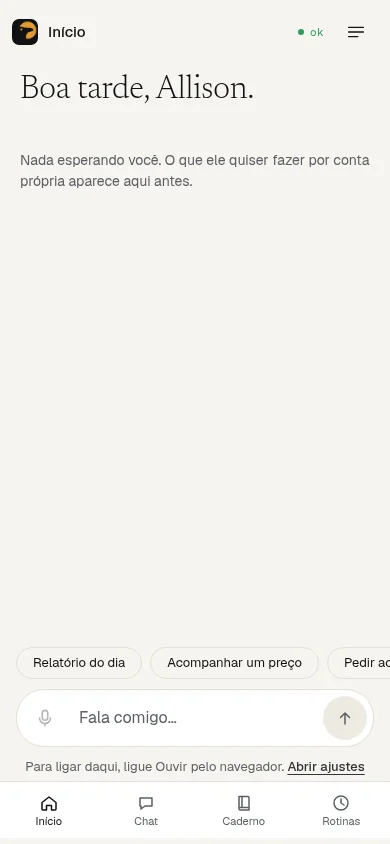
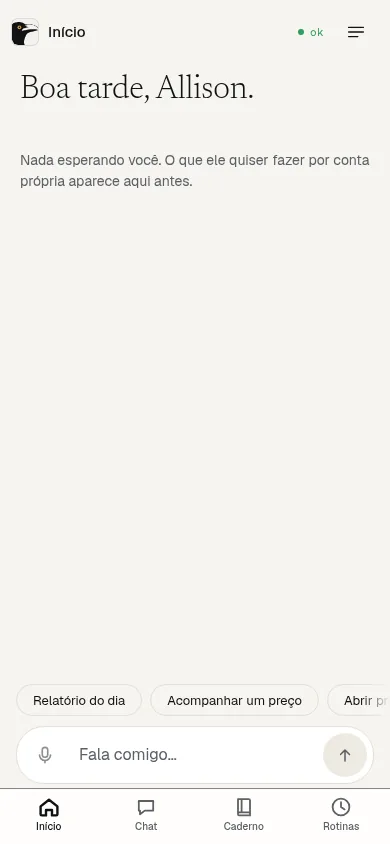
Marca: sai o corvo no eclipse
Saem os dois desenhos com o sol (brand/corvo/) e as cópias do app em
public/marca/corvo-256.png e corvo-512.png, que ninguém mais lê. O
README perde o "corvo diante do sol" na linha da identidade, nos textos
alternativos e na licença, e os prints do Início, do chat e do celular
foram refeitos com o corvo de olho âmbar. A animação do ponto de
atividade deixa de se chamar `sol` e vira `pulso`. O selo do login
continua como está.

Changed region(s): [[0.0615, 0.7701, 0.9231, 0.9858], [0.8923, 0.7701, 1.0, 0.8318], [0.0308, 0.0, 0.1231, 0.0616]]

diff --git a/apps/web/src/layout.css b/apps/web/src/layout.css
@@ -450,8 +450,8 @@ button.ghost:hover { color: var(--text); background: var(--surface-2); border-co
 .step-card-detail { margin: 0; padding: 8px 10px; overflow-x: auto; border-radius: 6px; background: var(--code); color: var(--code-text); font: 400 12px/1.5 var(--font-mono); white-space: pre-wrap; overflow-wrap: anywhere; }
 
 /* O ponto âmbar de atividade no compositor: é dele (DESIGN.md §2). */
-.composer-row > .atividade { order: 1; flex: none; width: 14px; height: 14px; margin: 0 6px; border-radius: 50%; background: var(--ambar); animation: sol 1.6s ease-out infinite; }
-@keyframes sol { 0%, 100% { box-shadow: 0 0 0 0 rgb(227 154 46 / .55); } 50% { box-shadow: 0 0 0 7px rgb(227 154 46 / 0); } }
+.composer-row > .atividade { order: 1; flex: none; width: 14px; height: 14px; margin: 0 6px; border-radius: 50%; background: var(--ambar); animation: pulso 1.6s ease-out infinite; }
+@keyframes pulso { 0%, 100% { box-shadow: 0 0 0 0 rgb(227 154 46 / .55); } 50% { box-shadow: 0 0 0 7px rgb(227 154 46 / 0); } }
 @media (prefers-reduced-motion: reduce) { .composer-row > .atividade { animation: none; } }
 
 /* Agora / O que fiz de verdade: coluna com borda, sem cartões (mockup). */

diff --git a/apps/web/src/brand/tokens.css b/apps/web/src/brand/tokens.css
@@ -1,4 +1,4 @@
-/* V.I.S.A.O.: tokens da identidade "corvo no eclipse" (DESIGN.md §2 e §3). Uma luz só: âmbar
+/* V.I.S.A.O.: tokens da identidade "corvo de olho âmbar" (DESIGN.md §2 e §3). Uma luz só: âmbar
    (#E39A2E) é dele; o resto é tinta, linha, cinza e papel. O botão principal é a cor do texto com
    o fundo por cima. Vermelho só em erro, e como texto. Três temas, trocados em Ajustes › Aparência
    (brand/theme.ts põe data-theme no <html>): Papel (claro, o padrão), Tinta (escuro) e Rótulo

diff --git a/README.pt-BR.md b/README.pt-BR.md
@@ -8,7 +8,7 @@
 
 <p align="center"><img src="brand/muninn/muninn-ascii.gif" width="620" alt="O Muninn se desenhando em ASCII: os caracteres assentam do peito para as pontas das asas, o anel de 24 marcas se fecha e a falha vazia do topo pisca"></p>
 
-![Início no tema Papel: o corvo diante do sol, a saudação, a barra lateral com os nove lugares e a barra de status no rodapé](docs/assets/inicio.webp)
+![Início no tema Papel: o corvo de olho âmbar, a saudação, a barra lateral com os nove lugares e a barra de status no rodapé](docs/assets/inicio.webp)
 
 Fiz o Visão para ser o amigo para quem eu ligo. Ele me ajuda com código e ideias, lembra só do
 que eu deixo e puxa conversa sozinho quando tem algo que vale dizer.
@@ -29,7 +29,7 @@ nem vida, e as regras que dizem isso ficam fora de tudo o que ele pode reescreve
 | **Lê meu email e minha agenda.** Lê o Gmail e a Google Agenda quando eu pergunto, e prepara respostas e eventos que só saem depois do meu toque em Aprovar. A conexão fica cifrada; um email que tenta dar ordens a ele no máximo vira um pedido que eu leio ([docs/GOOGLE.md](docs/GOOGLE.md)). | feito |
 | **Abre o que eu mando.** Links na mensagem são lidos antes da resposta: repositórios do GitHub pela API, outras páginas por um leitor que só alcança endereços HTTPS públicos. | feito |
 | **Vê fotos, lê arquivos.** Anexe pelo +, cole um print ou arraste um arquivo: fotos vão ao modelo como imagem (reduzidas no navegador antes), PDFs e arquivos de texto ou código vão como o texto lido deles, marcado como dado, nunca como ordem. O que você manda aparece na hora, antes da resposta ([docs/ANEXOS.md](docs/ANEXOS.md)). | feito; fotos pedem um modelo com visão |
-| **Um corvo diante do sol.** Sem mascote e sem olho vigiando: o ícone é o Muninn, o corvo da memória de Odin, em xilogravura diante de um eclipse âmbar, e o âmbar é só dele (os pensamentos, os pedidos de aprovação, o ponto que pulsa enquanto ele trabalha). Três temas, trocados na hora em Ajustes: Papel, Tinta e Rótulo. No computador é uma janela de app: barra lateral com nove lugares, a barra da página e a barra de status com o servidor, o Mac, as rotinas, o silêncio, o uso de modelos das últimas 24 h e o modelo, que se troca dali. Ctrl/⌘+K abre a paleta de comandos. O login mostra o selo: VISAO em Six Caps atrás do busto ([DESIGN.md](DESIGN.md)). Dá para continuar escrevendo enquanto ele responde: essas mensagens esperam, mais apagadas, e vão juntas como a próxima mensagem. | feito |
+| **Um corvo de olho âmbar.** Sem mascote: o ícone é um corvo em close, preto sobre papel, com um olho âmbar, e o âmbar é só dele (os pensamentos, os pedidos de aprovação, o ponto que pulsa enquanto ele trabalha). Três temas, trocados na hora em Ajustes: Papel, Tinta e Rótulo. No computador é uma janela de app: barra lateral com nove lugares, a barra da página e a barra de status com o servidor, o Mac, as rotinas, o silêncio, o uso de modelos das últimas 24 h e o modelo, que se troca dali. Ctrl/⌘+K abre a paleta de comandos. O login mostra o selo: VISAO em Six Caps atrás do busto ([DESIGN.md](DESIGN.md)). Dá para continuar escrevendo enquanto ele responde: essas mensagens esperam, mais apagadas, e vão juntas como a próxima mensagem. | feito |
 | **Páginas que ele escreve.** Peça um plano, um comparativo ou um roteiro para guardar: a resposta diz o que vai ter, e um cartão embaixo dela passa de "Criando…" para uma página que você abre, compartilha por um link secreto ou apaga. Escrita a partir da conversa e das pesquisas dela, com datas e fontes, "a confirmar" no que faltar; servida sem scripts e com origem opaca, então não alcança a sua sessão ([docs/ARTEFATOS.md](docs/ARTEFATOS.md)). | feito |
 | **Status ao vivo.** Enquanto trabalha, cada passo vira um cartão no chat ("Procurou no seu Gmail", "Abrindo github.com"), resumido ou técnico, como você preferir, e uma coluna ao lado mostra o que ele está fazendo agora e o que fez de verdade, tirado do registro do sistema. Se você sai do app no meio, a resposta chega também como notificação ([docs/STATUS.md](docs/STATUS.md)). | feito |
 | **Páginas ao vivo.** Para passagens, hotéis, preços ou horários ele abre os sites num Chromium de verdade (Google Voos e Hotéis funcionam; site que bloqueia robô é avisado, nunca contornado), lê o que mostram agora e responde com o site e a hora. Só lê: sem login, formulário ou compra. O navegador roda num container próprio, sem segredos nem banco ([docs/NAVEGADOR.md](docs/NAVEGADOR.md)). | feito |
@@ -197,7 +197,7 @@ Detalhes em [docs/ROADMAP.md](docs/ROADMAP.md); avaliações em [docs/EVALUATION
 
 ## Licença
 
-Código sob a [licença MIT](LICENSE). A marca (o corvo diante do sol, o selo VISAO, o Muninn, o
+Código sob a [licença MIT](LICENSE). A marca (o corvo de olho âmbar, o selo VISAO, o Muninn, o
 anel de rastros e a identidade visual do [DESIGN.md](DESIGN.md) e de [brand/](brand/)) fica de fora
 dela: quem fizer um fork leva o código, não a marca. As fontes (Newsreader, Geist, Geist Mono, Six
 Caps) vão com o app, sob a SIL Open Font License.

diff --git a/README.md b/README.md
@@ -8,7 +8,7 @@ English · [Português](README.pt-BR.md)
 
 <p align="center"><img src="brand/muninn/muninn-ascii.gif" width="620" alt="The Muninn being drawn in ASCII: characters settle from the chest to the wing tips, the ring of 24 marks closes and the empty gap at the top blinks"></p>
 
-![Início in the Papel theme: the crow before the sun, the greeting, the side bar with the nine places and the status bar at the bottom](docs/assets/inicio.webp)
+![Início in the Papel theme: the crow with the amber eye, the greeting, the side bar with the nine places and the status bar at the bottom](docs/assets/inicio.webp)
 
 I built Visão to be the friend I can call. It helps me with code and ideas, it remembers only what
 I let it remember, and it starts the conversation on its own when it has something worth saying.
@@ -30,7 +30,7 @@ rewrite.
 | **Reads my email and calendar.** It reads Gmail and Google Calendar when I ask, and prepares replies and events that only go out after I tap Approve. The connection is stored encrypted; an email that tries to give it orders can at most produce a proposal I read ([docs/GOOGLE.md](docs/GOOGLE.md)). | built |
 | **Opens what I send.** Links in a message are read before the reply: GitHub repositories through the API, other pages through a reader that only reaches public HTTPS addresses. | built |
 | **Sees photos, reads files.** Attach with +, paste a screenshot or drop a file: photos go to the model as pictures (shrunk in the browser first), PDFs and text or code files as the text read out of them, marked as data, never orders. What you send shows at once, before the reply ([docs/ANEXOS.md](docs/ANEXOS.md)). | built; needs a vision model for photos |
-| **A crow before the sun.** No mascot and no eye watching you: the icon is Muninn, Odin's raven of memory, in woodcut before an amber eclipse, and the amber belongs to it alone (its thoughts, its approval requests, the dot that pulses while it works). Three themes switched at once in Ajustes: Papel, Tinta and Rótulo. On a computer it is a desktop-style window: a side bar with nine places, a bar with the page, and a status bar with the server, the Mac, routines, quiet hours, the last 24 h of model use and the model, which you switch from there. Ctrl/⌘+K opens a command palette. The login shows the seal: VISAO in Six Caps behind the bust ([DESIGN.md](DESIGN.md)). Keep writing while it answers: those messages wait, dimmed, and go together as one next message. | built |
+| **A crow with an amber eye.** No mascot: the icon is a raven in close-up, black on paper, with one amber eye, and the amber belongs to it alone (its thoughts, its approval requests, the dot that pulses while it works). Three themes switched at once in Ajustes: Papel, Tinta and Rótulo. On a computer it is a desktop-style window: a side bar with nine places, a bar with the page, and a status bar with the server, the Mac, routines, quiet hours, the last 24 h of model use and the model, which you switch from there. Ctrl/⌘+K opens a command palette. The login shows the seal: VISAO in Six Caps behind the bust ([DESIGN.md](DESIGN.md)). Keep writing while it answers: those messages wait, dimmed, and go together as one next message. | built |
 | **Pages it writes.** Ask for a plan, a comparison or an itinerary to keep: the reply says what it will hold, and a card under it turns from "Criando…" into a page you open, share by a secret link or delete. Written from the conversation and its research, with dates and sources, "a confirmar" where something is missing; served with no scripts and an opaque origin, so it cannot touch your session ([docs/ARTEFATOS.md](docs/ARTEFATOS.md)). | built |
 | **Live status.** While it works, each step becomes a card in the chat ("Procurou no seu Gmail", "Abrindo github.com"), short or technical as you choose, and a column beside it shows what it is doing now and what it really did, taken from the system log. If you leave the app mid-turn, the reply also arrives as a notification ([docs/STATUS.md](docs/STATUS.md)). | built |
 | **Live pages.** For fares, rooms, prices or schedules it opens the sites in a real Chromium (Google Flights and Hotels work; sites that block robots are reported, never worked around), reads what they show now and answers with the site and the time. Read only: no logins, forms or purchases. The browser runs in its own container with no secrets and no database ([docs/NAVEGADOR.md](docs/NAVEGADOR.md)). | built |
@@ -157,7 +157,7 @@ The design docs, ADRs and research log in [docs/](docs/) are written in Portugue
 
 ## License
 
-Code under the [MIT License](LICENSE). The brand (the crow before the sun, the VISAO seal, Muninn,
+Code under the [MIT License](LICENSE). The brand (the crow with the amber eye, the VISAO seal, Muninn,
 the ring of traces and the visual identity in [DESIGN.md](DESIGN.md) and [brand/](brand/)) is not
 covered by it: forks keep the code and drop the brand. The fonts (Newsreader, Geist, Geist Mono,
 Six Caps) ship with the app under the SIL Open Font License.

diff --git a/brand/README.md b/brand/README.md
@@ -1,4 +1,4 @@
-# Marca: o corvo no eclipse (e o anel de rastros, que sai)
+# Marca: o corvo de olho âmbar (e o anel de rastros, que sai)
 
 O Visão nasce sem nome. A marca não desenha um rosto: desenha o que ele deixa. Regras completas
 (cor, tipo, forma, movimento, voz) em [DESIGN.md](../DESIGN.md).
@@ -7,8 +7,10 @@ O Visão nasce sem nome. A marca não desenha um rosto: desenha o que ele deixa.
   enquanto `chosen_name` for null. O ponto âmbar é a chamada ao modelo.
 - **Muninn:** a forma de agora, o corvo da memória de Odin, dentro do anel
   ([muninn/](muninn/README.md)).
-- **Corvo no eclipse:** o ícone do app e o avatar dele, em [`corvo/`](corvo/). Substitui o anel
-  (identidade nova, [`docs/design/telas-visao/`](../docs/design/telas-visao/README.md)).
+- **Corvo de olho âmbar:** o ícone do app e o avatar dele, em vetor em [`simbolo/`](simbolo/): o corvo
+  em close, preto sobre papel, com o olho âmbar. Substitui o anel e o corvo no eclipse (o busto
+  diante de um sol âmbar, que saiu em 25/11/2026). Telas em
+  [`docs/design/telas-visao/`](../docs/design/telas-visao/README.md).
 - **Uma luz só:** âmbar `#E39A2E` sobre tinta `#101214` e papel `#F6F4EF`.
 
 ## Arquivos
@@ -16,7 +18,6 @@ O Visão nasce sem nome. A marca não desenha um rosto: desenha o que ele deixa.
 | Arquivo | Uso |
 |---|---|
 | `simbolo/corvo-olho-icone.svg`, `simbolo/corvo-olho-pequeno.svg` | O corvo de olho âmbar, em vetor: o ícone de 64 px para cima, o pequeno (corte fechado na cabeça, só o olho e o bico) até 48 px. Fonte de todos os ícones do app. |
-| `corvo/icone-grande-512.png`, `corvo/icone-pequeno-256.png` | O corvo no eclipse: o grande acima de 72 px, o pequeno (traço mais grosso) em 72 px ou menos. Fonte de todos os ícones do web. |
 | `app-icon.png`, `app-icon-dark.png`, `app-icon-tinted.png` | Ícone do iPhone, ainda o anel (1024, sem cantos: o iOS arredonda). |
 | `visao-wordmark.svg` | O codinome `VISÃO` em Geist Mono, em contornos (não precisa da fonte). |
 | `og-image.png` | Imagem de compartilhamento 1200 × 630: Muninn no anel e "Nasce sem nome." |
